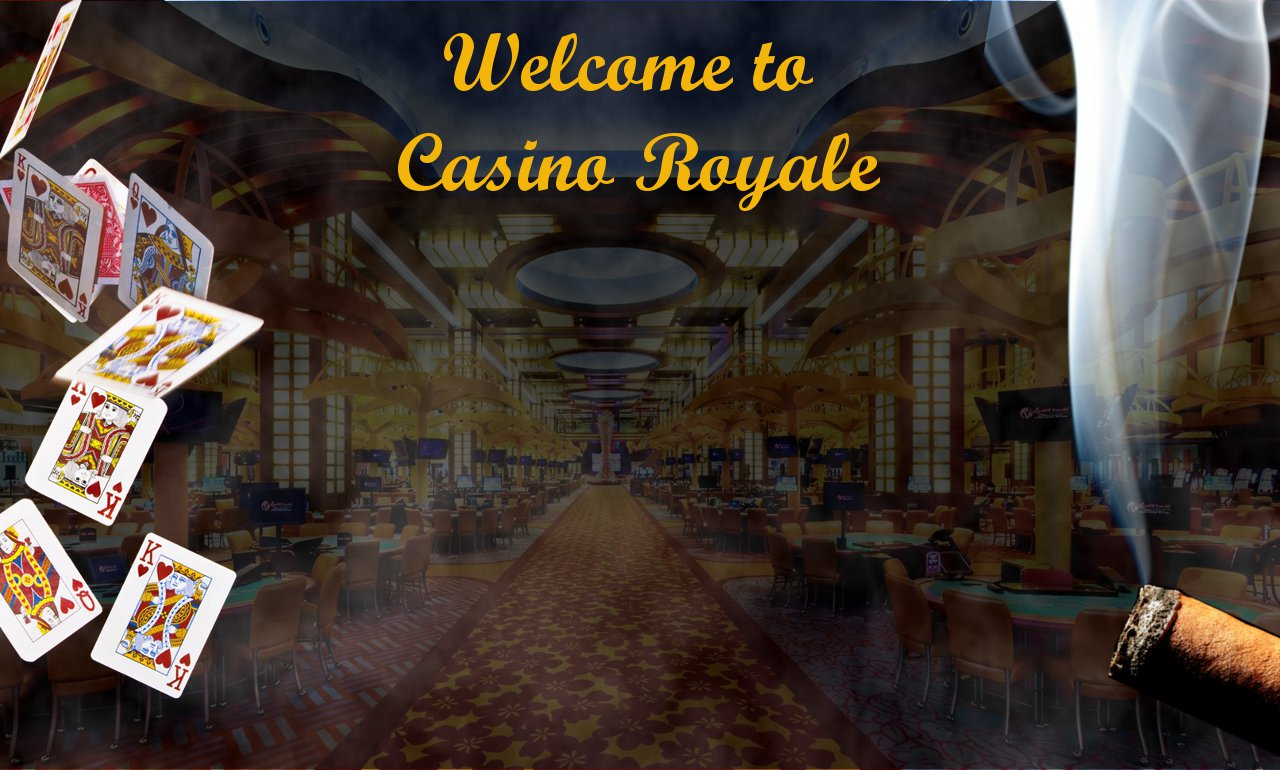
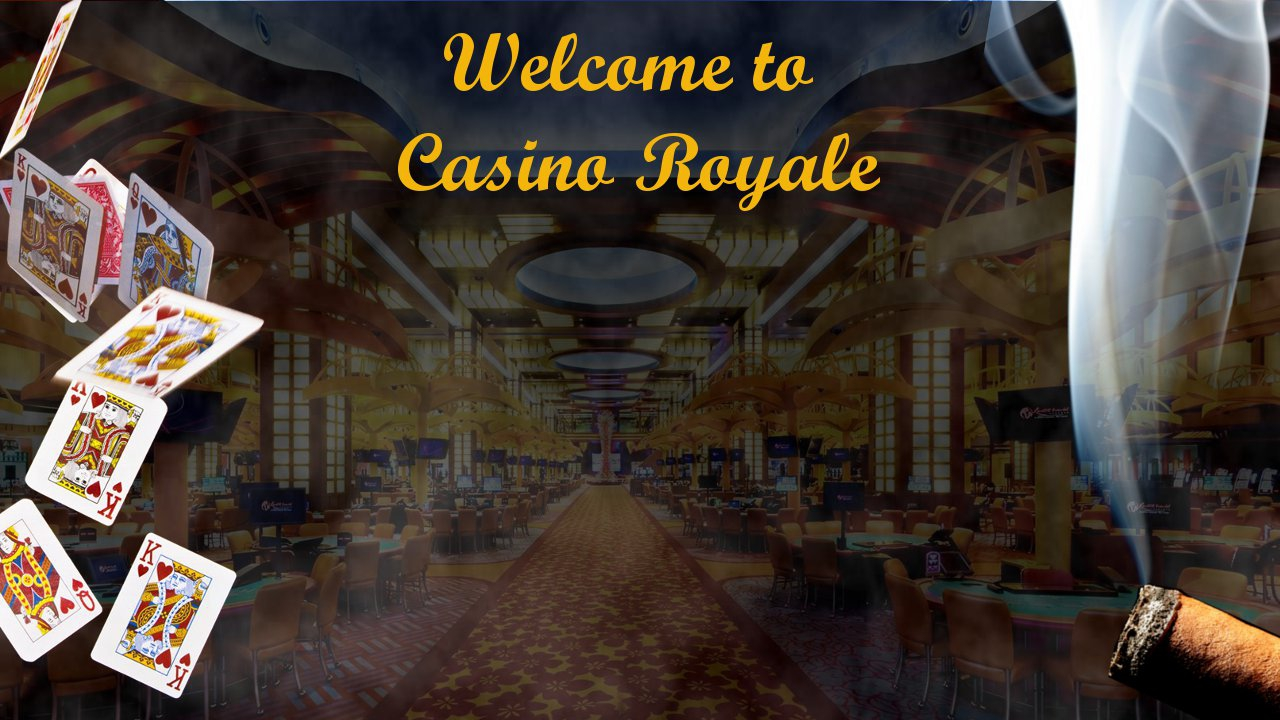
Changed overall size to 1280 by 750 This will allow it to fit better in smaller resolutions.

diff --git a/Casino Royale/src/croyale/LoginWindow.java b/Casino Royale/src/croyale/LoginWindow.java
@@ -81,7 +81,7 @@ public class LoginWindow extends JFrame implements ActionListener{
 					frame.setDefaultCloseOperation(JFrame.EXIT_ON_CLOSE);
 								
 					int windowWidth = 1280;
-					int windowHeight = 800;
+					int windowHeight = 750;
 					frame.setBounds(50, 100, windowWidth, windowHeight);
 					frame.setResizable(false);
 								
